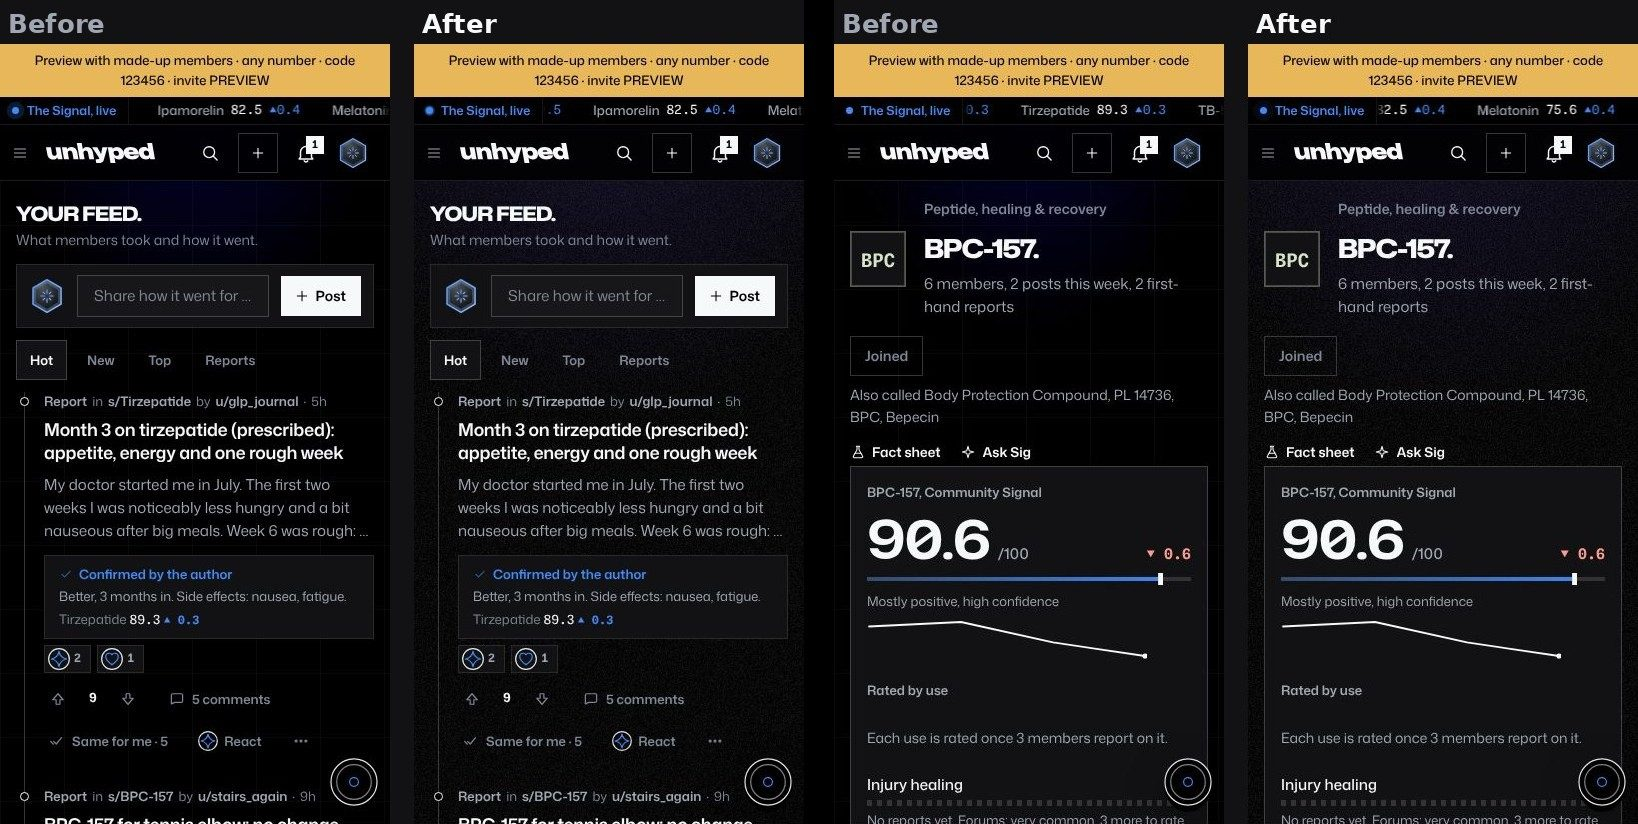
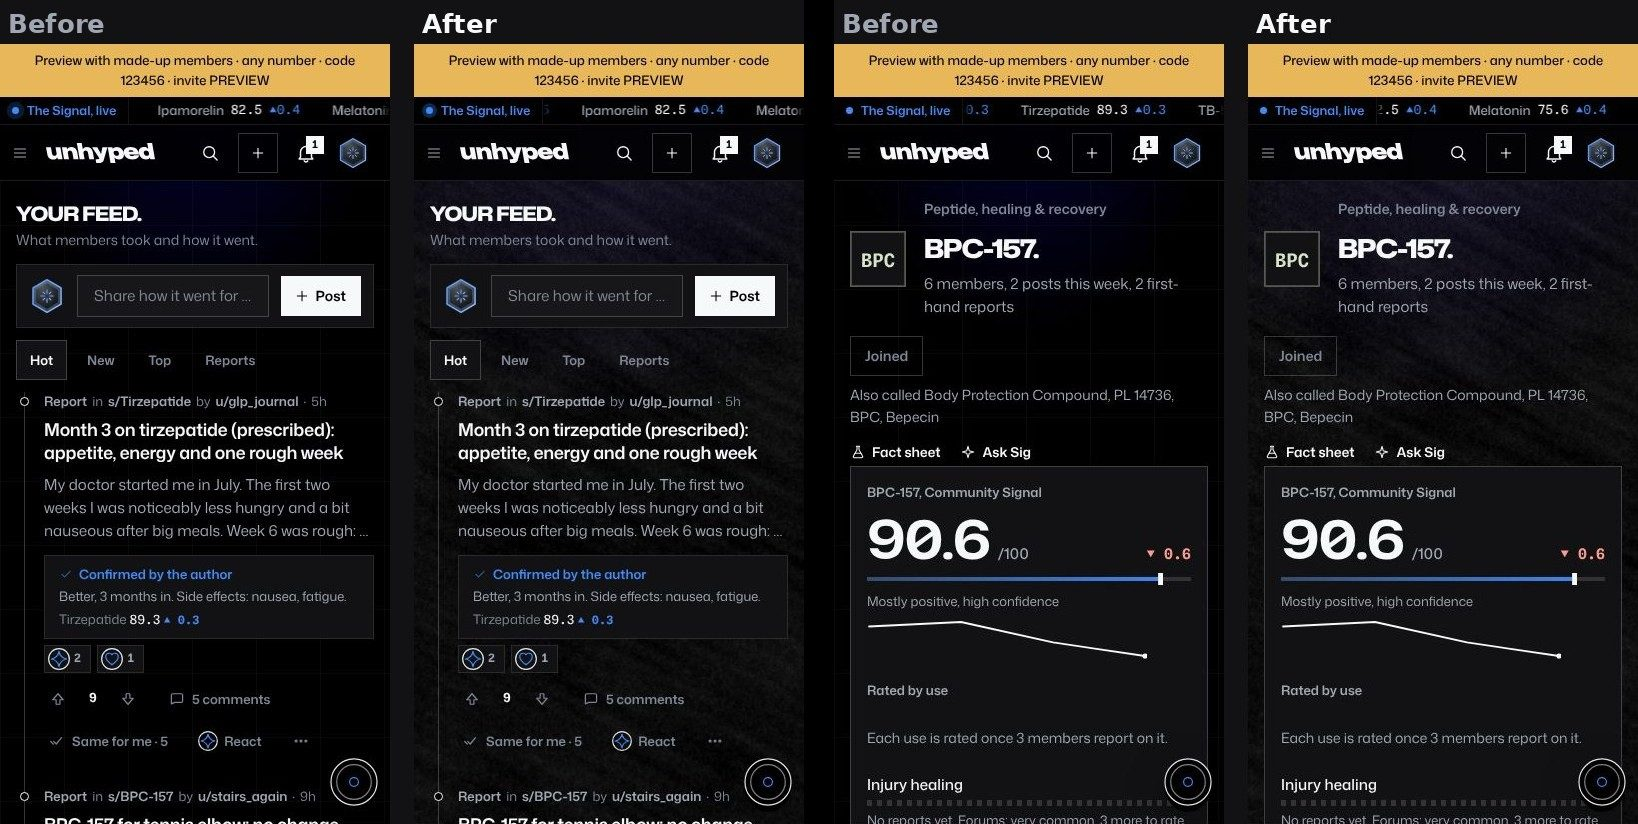
The community's ground: brushed Alcantara
The owner asked to try Alcantara. The ground is now a suede microfibre
on black: fine fuzz, short fibres lying every way, soft patches where the
nap lies one way or the other, and the faint diagonal strokes of a hand
across it. A seamless 512px grayscale tile of 27 KB (web/img/ground.jpg),
drawn by scripts/draw_ground.py, which also draws the soft suede without
the strokes (BRUSHED = False). The light from the top is unchanged.

Claude-Session: https://claude.ai/code/session_01L1dqBz7CyYyjJK7ktWLtFo

Changed region(s): [[0.8407, 0.1214, 0.9963, 0.1517], [0.3425, 0.1214, 0.4982, 0.1517], [0.9029, 0.3337, 0.9341, 0.3641]]

diff --git a/web/styles.css b/web/styles.css
@@ -135,17 +135,17 @@ img,svg{flex:none}
 
 /* ---------------------------------------------------------------- layout */
 .os{display:grid;grid-template-columns:minmax(0,1fr);min-height:100dvh}
-/* The community's ground is cosy (the owner, November 23): fine grain on black (img/ground.png, drawn by
-   scripts/draw_ground.py), under a soft ultramarine light from the top that warms into violet. It runs
-   under the docked side panel and the foot too, so the page is one surface */
-.win{position:relative;display:flex;flex-direction:column;min-width:0;min-height:100dvh;margin:0;background:radial-gradient(120% 760px at 50% -220px,rgba(26,4,255,.24) 0%,rgba(107,72,241,.10) 40%,rgba(0,0,0,0) 72%),url(img/ground.png) 0 0/256px 256px,var(--os-win)}
+/* The community's ground is cosy (the owner, November 23): brushed Alcantara on black (img/ground.jpg,
+   drawn by scripts/draw_ground.py), under a soft ultramarine light from the top that warms into violet.
+   It runs under the docked side panel and the foot too, so the page is one surface */
+.win{position:relative;display:flex;flex-direction:column;min-width:0;min-height:100dvh;margin:0;background:radial-gradient(120% 760px at 50% -220px,rgba(26,4,255,.24) 0%,rgba(107,72,241,.10) 40%,rgba(0,0,0,0) 72%),url(img/ground.jpg) 0 0/512px 512px,var(--os-win)}
 .layout{flex:1 0 auto;display:grid;grid-template-columns:minmax(0,1fr) var(--rail-w);grid-template-areas:'main rail';gap:28px;padding:0 24px 56px}
 /* the side panel: the logo, Unhyped's places (the Signal first, then the design kit's bar,
    standing up, each with its mark), then the community's menu, then the rules and the legal. It is
    never taken away: open beside the page from 1280px wide, and below that a drawer the menu
    button slides in, with its own button to close it, as on miraclehealth.us. */
 .side{position:sticky;top:0;z-index:31;display:flex;flex-direction:column;height:100dvh;padding:10px 10px 12px 12px;border-right:1px solid rgba(255,255,255,.09);background:var(--os-side);color:var(--text);overflow:hidden}
-@media (min-width:1280px){.side{background:url(img/ground.png) 0 0/256px 256px,var(--os-side)}}
+@media (min-width:1280px){.side{background:url(img/ground.jpg) 0 0/512px 512px,var(--os-side)}}
 .side-head{display:flex;align-items:center;flex:none;height:44px;padding:0 0 0 6px}
 @media (min-width:1280px){
   .os{grid-template-columns:var(--side-w) minmax(0,1fr)}

diff --git a/scripts/draw_ground.py b/scripts/draw_ground.py
@@ -1,18 +1,52 @@
-# The community's ground: fine grain on black (the owner, November 23: "can the community page
-# background be a cosy texture?", then option 1, grain, of the three tried: grain, felt and linen).
-# One-pixel grain, about 3% light on average with a 2.2% spread, as a seamless 256px grayscale tile
-# (random grain tiles without a seam). Change the two numbers below to make it lighter or stronger.
-# Usage: python3 scripts/draw_ground.py   (writes web/img/ground.png)
+# The community's ground: Alcantara on black (the owner, November 23: "can the community page background
+# be a cosy texture?", then "lets try alcantara"). A suede microfibre: its fine fuzz, short fibres lying
+# every way, soft patches where the nap lies one way or the other and, brushed, the faint strokes of a
+# hand across it. Seamless (every blur wraps around the tile), a 512px grayscale tile of about 27 KB.
+# BRUSHED = False draws the soft suede without the strokes; the grain tried first was one-pixel noise
+# at 3.2% light with a 2.2% spread.
+# Usage: python3 scripts/draw_ground.py   (writes web/img/ground.jpg)
 import os
 import numpy as np
-from PIL import Image
+from PIL import Image, ImageDraw
 
-MEAN, SPREAD = 0.032, 0.022
-rng = np.random.default_rng(23)
-g = rng.standard_normal((256, 256))
-g = (g - g.mean()) / g.std()
-v = np.round(np.clip(MEAN + SPREAD * g, 0, 1) * 255).astype(np.uint8)
-out = os.path.join(os.path.dirname(__file__), '..', 'web', 'img', 'ground.png')
+BRUSHED = True
+M = 512
+rng = np.random.default_rng(7)
+
+def oriented_blur(a, sx, sy, angle_deg=0.0):
+    h, w = a.shape
+    fy = np.fft.fftfreq(h)[:, None]; fx = np.fft.fftfreq(w)[None, :]
+    t = np.deg2rad(angle_deg)
+    u = fx * np.cos(t) + fy * np.sin(t); v = -fx * np.sin(t) + fy * np.cos(t)
+    return np.real(np.fft.ifft2(np.fft.fft2(a) * np.exp(-2 * np.pi**2 * ((u * sx)**2 + (v * sy)**2))))
+
+def norm(a):
+    a = a - a.mean(); return a / (a.std() + 1e-9)
+
+def fibres(n=26000, ss=2):
+    # short fibres in every direction, drawn twice the size with wrap-around, then shrunk
+    S = M * ss; im = Image.new('L', (S, S), 0); d = ImageDraw.Draw(im)
+    xs = rng.uniform(0, S, n); ys = rng.uniform(0, S, n); ang = rng.uniform(0, np.pi, n)
+    ln = rng.uniform(3, 9, n) * ss; br = rng.uniform(60, 255, n)
+    for x, y, a, l, b in zip(xs, ys, ang, ln, br):
+        dx, dy = np.cos(a) * l / 2, np.sin(a) * l / 2
+        for ox in (-S, 0, S):
+            for oy in (-S, 0, S):
+                if -l < x + ox < S + l and -l < y + oy < S + l:
+                    d.line((x + ox - dx, y + oy - dy, x + ox + dx, y + oy + dy), fill=int(b), width=1)
+    return norm(np.asarray(im.resize((M, M), Image.BOX), dtype=np.float64))
+
+fuzz = norm(oriented_blur(rng.standard_normal((M, M)), 0.8, 0.8))
+fib = norm(oriented_blur(fibres(), 0.5, 0.5))
+patches = norm(oriented_blur(rng.standard_normal((M, M)), 46, 46))
+nap = norm(oriented_blur(rng.standard_normal((M, M)), 16, 16))
+strokes = norm(oriented_blur(rng.standard_normal((M, M)), 34, 3.2, 28))
+if BRUSHED:
+    a = 0.042 + 0.009 * patches + 0.005 * nap + 0.010 * strokes + 0.007 * fuzz + 0.008 * fib
+else:
+    a = 0.042 + 0.010 * patches + 0.006 * nap + 0.008 * fuzz + 0.009 * fib
+v = np.round(np.clip(a, 0, 1) * 255).astype(np.uint8)
+out = os.path.join(os.path.dirname(__file__), '..', 'web', 'img', 'ground.jpg')
 os.makedirs(os.path.dirname(out), exist_ok=True)
-Image.fromarray(v, 'L').save(out, optimize=True)
+Image.fromarray(v, 'L').save(out, quality=86, optimize=True, progressive=True)
 print('wrote', os.path.normpath(out), os.path.getsize(out), 'bytes')
